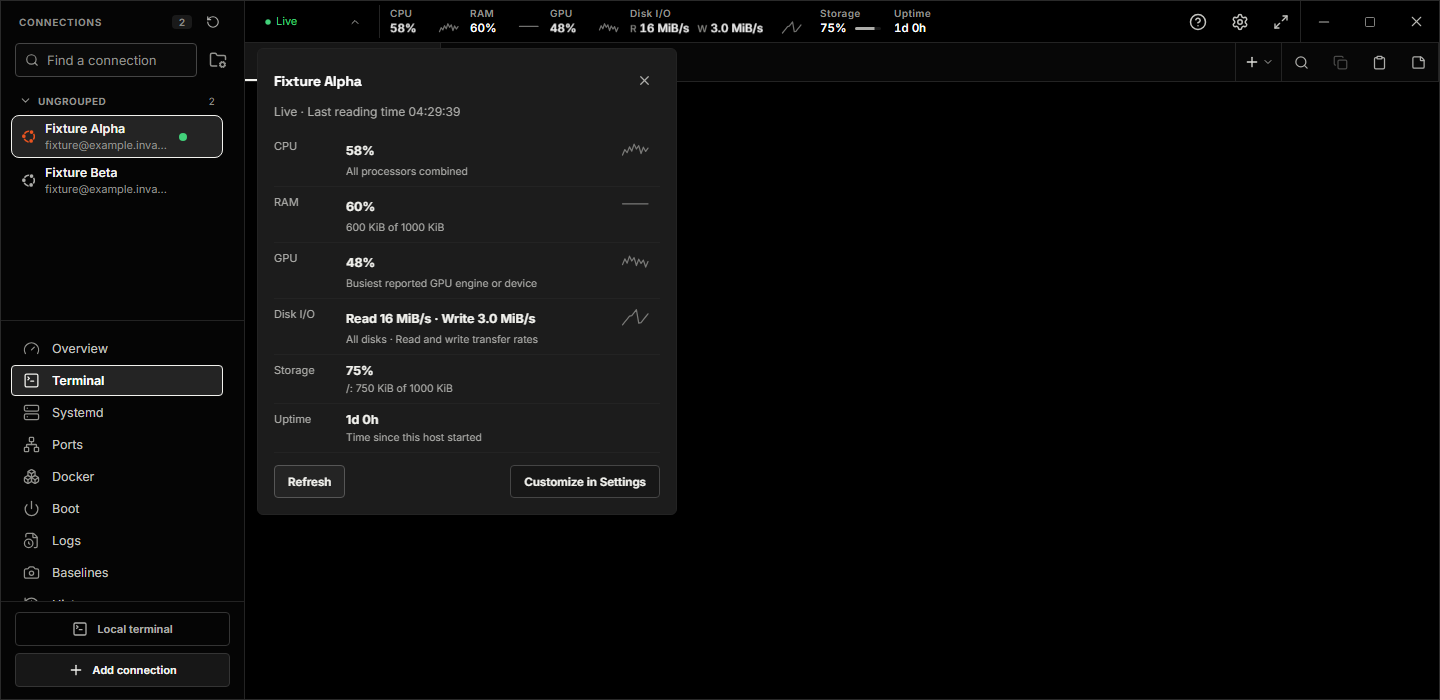
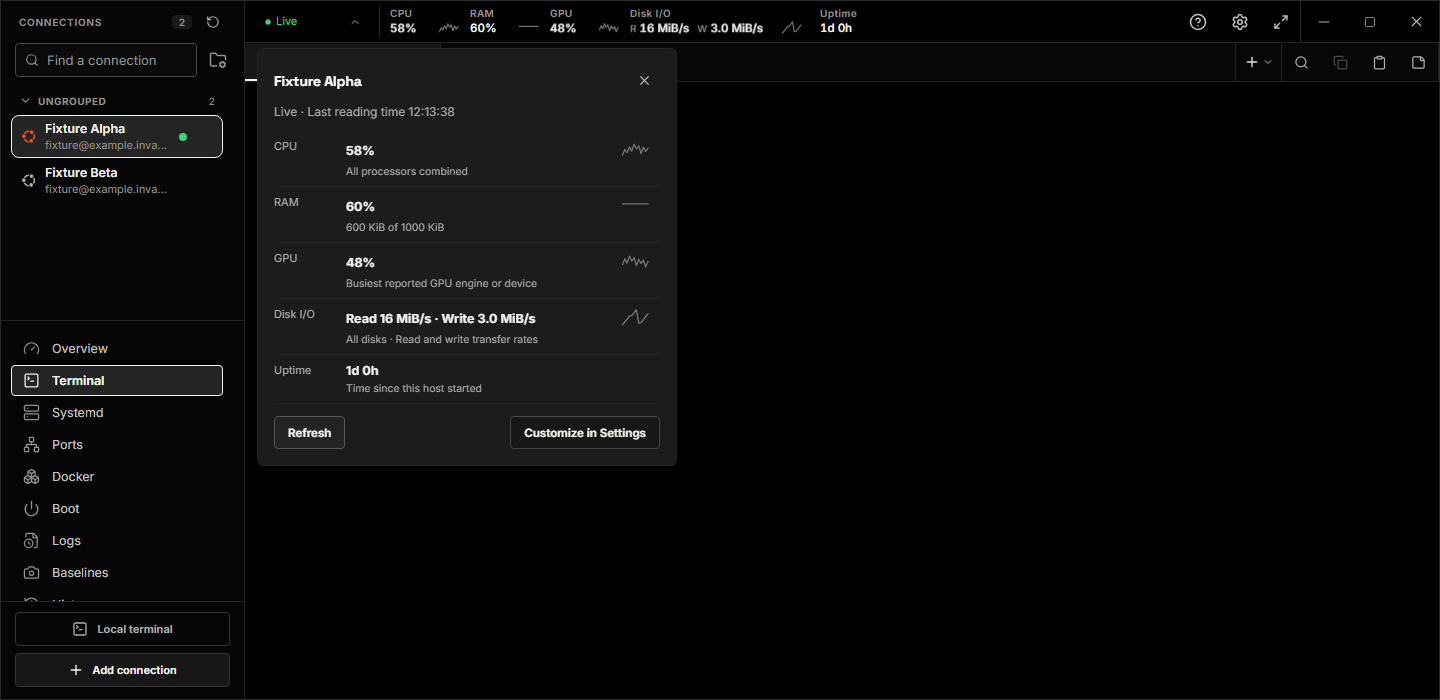
Remove storage fullness from live header metrics

diff --git a/src/app-journeys.browser.test.tsx b/src/app-journeys.browser.test.tsx
@@ -916,7 +916,7 @@ describe("complete app journeys with typed IPC fixtures", () => {
       .at(-1)!;
     expect(call[1]).toEqual({
       connectionId: null,
-      metrics: ["cpu", "ram", "diskIo", "disk", "uptime"],
+      metrics: ["cpu", "ram", "diskIo", "uptime"],
     });
     await page.getByRole("button", { name: "Open Settings" }).click();
     expect(element.querySelector(".host-metrics")).toBeNull();
@@ -924,6 +924,36 @@ describe("complete app journeys with typed IPC fixtures", () => {
     await page.getByRole("button", { name: "Save settings" }).click();
     await page.getByRole("button", { name: "Close Settings", exact: true }).click();
     expect(element.querySelector(".host-metrics")).toBeNull();
+  });
+  it("ignores saved Storage selections in the header, sampler, and Settings", async () => {
+    currentSettings = {
+      ...currentSettings,
+      hostMetricsEnabled: true,
+      hostMetrics: ["cpu", "disk", "diskIo"],
+    };
+    await mount();
+    await expect
+      .poll(() => element.querySelector<HTMLElement>(".host-metrics")?.dataset.state)
+      .toBe("live");
+    expect(element.querySelector('[data-metric="disk"]')).toBeNull();
+    expect(element.querySelector('.host-metrics-values [data-metric="diskIo"]')).not.toBeNull();
+    const samples = native.invoke.mock.calls.filter(([name]) => name === "sample_header_metrics");
+    expect(samples.length).toBeGreaterThan(0);
+    expect(samples.every(([, args]) => !args.metrics.includes("disk"))).toBe(true);
+    await page.getByRole("button", { name: "Open Settings" }).click();
+    expect(element.querySelector(".host-metrics-settings")!.textContent).not.toContain("Storage");
+    await expect.element(page.getByRole("button", { name: "Save settings" })).toBeDisabled();
+    await expect
+      .element(page.getByRole("checkbox", { name: "Disk I/O", exact: true }))
+      .toBeChecked();
+  });
+  it("hides the header without sampling when only retired Storage was selected", async () => {
+    currentSettings = { ...currentSettings, hostMetricsEnabled: true, hostMetrics: ["disk"] };
+    await mount();
+    expect(element.querySelector(".host-metrics")).toBeNull();
+    expect(native.invoke.mock.calls.some(([name]) => name === "sample_header_metrics")).toBe(false);
+    await page.getByRole("button", { name: "Open Settings" }).click();
+    await expect.element(page.getByText("Select a metric to display the header.")).toBeVisible();
   });
   it("starts local readings while the previous SSH target is still pending and ignores its late reply", async () => {
     currentSettings = { ...currentSettings, hostMetricsEnabled: true };
@@ -1124,7 +1154,7 @@ describe("complete app journeys with typed IPC fixtures", () => {
     await expect.poll(() => tab.querySelector(".presence")).toBeNull();
   });
 
-  it("animates real header readings while keeping I/O distinct from capacity and resetting trends for each host", async () => {
+  it("animates real header readings without storage capacity and resets trends for each host", async () => {
     currentSettings = {
       ...currentSettings,
       hostMetricsEnabled: true,
@@ -1157,9 +1187,8 @@ describe("complete app journeys with typed IPC fixtures", () => {
         (cell) => cell.getBoundingClientRect().left,
       );
     const before = positions();
-    const storage = strip.querySelector<HTMLElement>('[data-metric="disk"]')!;
     const io = strip.querySelector<HTMLElement>('[data-metric="diskIo"]')!;
-    expect(storage.textContent).toContain("Storage75%");
+    expect(strip.querySelector('[data-metric="disk"]')).toBeNull();
     expect(io.textContent).toContain("0 B/s");
     expect(io).toHaveAccessibleName("Disk I/O: Read 0 B/s · Write 0 B/s");
     await page.getByRole("button", { name: /: Host metrics for Fixture Alpha$/ }).click();
@@ -1171,7 +1200,6 @@ describe("complete app journeys with typed IPC fixtures", () => {
     const path = io.querySelector("path")!;
     expect(path.getAttribute("d")).toContain("L");
     expect(positions()).toEqual(before);
-    expect(storage.querySelector(".host-metric-meter")!.getAttribute("style")).toContain("0.75");
     await page.screenshot({ path: "../test-results/live-metrics-panel.png" });
     await userEvent.keyboard("{Escape}");
     await expect.poll(() => strip.querySelector(".host-metrics-panel")).toBeNull();

diff --git a/src/App.tsx b/src/App.tsx
@@ -56,7 +56,7 @@ import {
 import { CommandPalette } from "./components/CommandPalette";
 import { ConfirmDialog } from "./components/ConfirmDialog";
 import { HostMetrics } from "./components/HostMetrics";
-import { DEFAULT_HEADER_METRICS } from "./lib/header-metrics";
+import { displayedHeaderMetrics } from "./lib/header-metrics";
 import { UpdateIndicator } from "./components/UpdateIndicator";
 import { TerminalTargetMenu } from "./components/TerminalTargetMenu";
 import type { TerminalPaneHandle } from "./components/TerminalPane";
@@ -1865,6 +1865,7 @@ export function App() {
     ];
   });
 
+  const headerMetrics = displayedHeaderMetrics(settingsContract?.current.hostMetrics);
   return (
     <div
       ref={shellSize.ref}
@@ -1886,7 +1887,7 @@ export function App() {
           !terminalFocusMode &&
           settingsContract?.current.hostMetricsEnabled &&
           activeWorkspace &&
-          (settingsContract.current.hostMetrics?.length ?? DEFAULT_HEADER_METRICS.length) > 0 && (
+          headerMetrics.length > 0 && (
             <HostMetrics
               key={
                 isLocalWorkspace(activeWorkspace)
@@ -1899,7 +1900,7 @@ export function App() {
                   ? "Local machine"
                   : activeWorkspace.connectionSnapshot.displayName
               }
-              metrics={settingsContract.current.hostMetrics ?? DEFAULT_HEADER_METRICS}
+              metrics={headerMetrics}
               seconds={settingsContract.current.hostMetricsIntervalSeconds ?? 5}
               onSettings={() => setSettingsOpen(true)}
             />

diff --git a/src/pages/SettingsPane.tsx b/src/pages/SettingsPane.tsx
@@ -2,7 +2,11 @@ import { useEffect, useRef, useState, type FormEvent } from "react";
 import { ArrowLeft, RefreshCw, RotateCcw, Save } from "lucide-react";
 import { FontCatalogPicker } from "../components/FontCatalogPicker";
 import { api, errorMessage } from "../lib/api";
-import { DEFAULT_HEADER_METRICS, HEADER_METRIC_LABELS } from "../lib/header-metrics";
+import {
+  DEFAULT_HEADER_METRICS,
+  HEADER_METRIC_LABELS,
+  displayedHeaderMetrics,
+} from "../lib/header-metrics";
 import { offeredLocalShells } from "../lib/offered-local-shells";
 import { settingsHaveChanges } from "../lib/settings-draft";
 import type { AppSettings, EnvironmentInfo, LocalShellProfile } from "../types";
@@ -291,11 +295,8 @@ export function SettingsPane({
                 </select>
               </label>
             </fieldset>
-            <small>
-              Storage shows space used. Disk I/O shows read and write speeds. Monitoring pauses
-              while Settings is open or the window is hidden.
-            </small>
-            {draft.hostMetricsEnabled && draft.hostMetrics?.length === 0 && (
+            <small>Monitoring pauses while Settings is open or the window is hidden.</small>
+            {draft.hostMetricsEnabled && displayedHeaderMetrics(draft.hostMetrics).length === 0 && (
               <small>Select a metric to display the header.</small>
             )}
           </fieldset>

diff --git a/src/lib/settings-draft.ts b/src/lib/settings-draft.ts
@@ -1,5 +1,5 @@
 import type { AppSettings } from "../types";
-import { DEFAULT_HEADER_METRICS } from "./header-metrics";
+import { displayedHeaderMetrics } from "./header-metrics";
 
 function sameStringSet(saved: unknown, draft: unknown): boolean {
   const savedValues = Array.isArray(saved) ? new Set(saved) : new Set();
@@ -19,10 +19,7 @@ export function settingsHaveChanges(saved: AppSettings, draft: AppSettings): boo
     if (key === "hostMetricsEnabled") return (saved[key] ?? false) !== (draft[key] ?? false);
     if (key === "hostMetricsIntervalSeconds") return (saved[key] ?? 5) !== (draft[key] ?? 5);
     if (key === "hostMetrics")
-      return !sameStringSet(
-        saved[key] ?? DEFAULT_HEADER_METRICS,
-        draft[key] ?? DEFAULT_HEADER_METRICS,
-      );
+      return !sameStringSet(displayedHeaderMetrics(saved[key]), displayedHeaderMetrics(draft[key]));
     if (key === "localTerminalMode") return (saved[key] ?? false) !== (draft[key] ?? false);
     if (key === "defaultLocalShellId") return (saved[key] || null) !== (draft[key] || null);
     if (key === "hiddenLocalShells") return !sameStringSet(saved[key], draft[key]);

diff --git a/e2e/live-ssh.spec.ts b/e2e/live-ssh.spec.ts
@@ -42,7 +42,7 @@ async function connect() {
 }
 
 describe("read-only Ubuntu SSH journeys with independent native processes", () => {
-  it("shows live disk read/write rates separately from storage capacity in the native header", async () => {
+  it("shows live disk read/write rates without storage capacity in the native header", async () => {
     await connect();
     await $("aria/Open Settings").click();
     await $("aria/Show host metrics in header").waitForExist();
@@ -56,8 +56,7 @@ describe("read-only Ubuntu SSH journeys with independent native processes", () =
     });
     await expect(io).toHaveAttribute("aria-label", expect.stringContaining("Read "));
     await expect(io).toHaveAttribute("aria-label", expect.stringContaining("/s"));
-    await expect(storage).toHaveAttribute("aria-label", expect.stringContaining("Storage: "));
-    await expect(storage).toHaveAttribute("aria-label", expect.stringContaining("%"));
+    await expect(storage).not.toExist();
     await expect($(".host-row.active .presence-busy")).not.toExist();
   });
   it("keeps the host and tab processing rings active during a silent command", async () => {

diff --git a/src/styles.css b/src/styles.css
@@ -529,9 +529,6 @@ code,
 .host-metric[data-metric="diskIo"] {
   min-width: 180px;
 }
-.host-metric[data-metric="disk"] {
-  min-width: 64px;
-}
 .host-metric[data-metric="uptime"] {
   min-width: 56px;
 }
@@ -556,25 +553,6 @@ code,
   stroke-linejoin: round;
   vector-effect: non-scaling-stroke;
   transition: d var(--motion-med) var(--ease);
-}
-.host-metric-meter {
-  display: block;
-  width: 26px;
-  height: 3px;
-  flex: none;
-  overflow: hidden;
-  border-radius: 2px;
-  background: var(--fill-hover);
-  pointer-events: none;
-}
-.host-metric-meter::after {
-  content: "";
-  display: block;
-  height: 100%;
-  background: var(--text-muted);
-  transform: scaleX(var(--metric-level));
-  transform-origin: left;
-  transition: transform var(--motion-med) var(--ease);
 }
 .host-metrics:not([data-state="live"]) .host-metric-trend {
   opacity: 0.25;
@@ -733,9 +711,6 @@ code,
   }
   .host-metric[data-metric="diskIo"] {
     min-width: 160px;
-  }
-  .host-metric[data-metric="disk"] {
-    min-width: 60px;
   }
   .host-metric[data-metric="uptime"] {
     min-width: 54px;

diff --git a/src/lib/header-metrics.test.ts b/src/lib/header-metrics.test.ts
@@ -8,6 +8,7 @@ import {
   formatByteRate,
   headerMetricNumber,
   metricTrend,
+  displayedHeaderMetrics,
 } from "./header-metrics";
 import type { HeaderMetrics } from "../types";
 const sample: HeaderMetrics = {
@@ -24,6 +25,12 @@ const sample: HeaderMetrics = {
   uptimeSeconds: 90000,
 };
 describe("header metric values", () => {
+  it("excludes retired storage selections without changing other choices", () => {
+    expect(displayedHeaderMetrics()).toEqual(["cpu", "ram", "gpu", "diskIo", "uptime"]);
+    expect(displayedHeaderMetrics(["diskIo", "disk", "cpu"])).toEqual(["diskIo", "cpu"]);
+    expect(displayedHeaderMetrics(["disk"])).toEqual([]);
+    expect(displayedHeaderMetrics([])).toEqual([]);
+  });
   it("separates read/write transfer rates from storage fullness", () => {
     expect(headerMetricValue("diskIo", sample)).toBe("Read 1.0 MiB/s · Write 512 KiB/s");
     expect(headerMetricValue("disk", sample)).toBe("50%");

diff --git a/src/components/HostMetrics.tsx b/src/components/HostMetrics.tsx
@@ -1,4 +1,4 @@
-import { useEffect, useId, useRef, useState, type CSSProperties } from "react";
+import { useEffect, useId, useRef, useState } from "react";
 import { Circle, CircleAlert, CircleDashed, Clock3, ChevronDown, Pause, X } from "lucide-react";
 import { useHeaderMetrics } from "../hooks/use-header-metrics";
 import { usePopoverExit } from "../hooks/use-popover-exit";
@@ -67,15 +67,7 @@ function MetricCell({
             compact
           )}
         </span>
-        {metric === "disk" && available ? (
-          <span
-            className="host-metric-meter"
-            aria-hidden="true"
-            style={{ "--metric-level": headerMetricNumber(metric, sample)! / 100 } as CSSProperties}
-          />
-        ) : (
-          <MetricTrace metric={metric} history={history} />
-        )}
+        <MetricTrace metric={metric} history={history} />
       </strong>
     </span>
   );

diff --git a/src/pages/SettingsPane.test.tsx b/src/pages/SettingsPane.test.tsx
@@ -105,6 +105,7 @@ describe("Settings actions", () => {
   it("enables and customizes host metrics while keeping the default draft clean", async () => {
     renderPane();
     expect(saveButton().disabled).toBe(true);
+    expect(screen.queryByRole("checkbox", { name: "Storage" })).toBeNull();
     const enabled = screen.getByRole("checkbox", { name: "Show host metrics in header" });
     expect((enabled as HTMLInputElement).checked).toBe(false);
     await userEvent.click(enabled);
@@ -116,7 +117,7 @@ describe("Settings actions", () => {
     expect(api.saveSettings).toHaveBeenCalledWith({
       ...settings,
       hostMetricsEnabled: true,
-      hostMetrics: ["cpu", "ram", "diskIo", "disk", "uptime"],
+      hostMetrics: ["cpu", "ram", "diskIo", "uptime"],
       hostMetricsIntervalSeconds: 10,
     });
   });

diff --git a/src/lib/settings-draft.test.ts b/src/lib/settings-draft.test.ts
@@ -62,6 +62,20 @@ describe("Settings drafts", () => {
 });
 
 describe("header metric preferences", () => {
+  it("ignores retired storage selections when checking for unsaved edits", () => {
+    expect(
+      settingsHaveChanges(
+        { ...settings, hostMetrics: ["cpu", "disk", "diskIo"] },
+        { ...settings, hostMetrics: ["cpu", "diskIo"] },
+      ),
+    ).toBe(false);
+    expect(
+      settingsHaveChanges(
+        { ...settings, hostMetrics: ["disk"] },
+        { ...settings, hostMetrics: ["diskIo"] },
+      ),
+    ).toBe(true);
+  });
   it("treats missing preferences as defaults and compares metric selections by value", () => {
     expect(
       settingsHaveChanges(settings, {

diff --git a/src/lib/header-metrics.ts b/src/lib/header-metrics.ts
@@ -1,14 +1,11 @@
 import type { HeaderMetric, HeaderMetrics } from "../types";
 import { formatKib, memoryUsage } from "./host-resources";
 
-export const DEFAULT_HEADER_METRICS: HeaderMetric[] = [
-  "cpu",
-  "ram",
-  "gpu",
-  "diskIo",
-  "disk",
-  "uptime",
-];
+export const DEFAULT_HEADER_METRICS: HeaderMetric[] = ["cpu", "ram", "gpu", "diskIo", "uptime"];
+/** Older settings can still contain the retired filesystem-capacity metric. */
+export function displayedHeaderMetrics(metrics: HeaderMetric[] = DEFAULT_HEADER_METRICS) {
+  return metrics.filter((metric) => metric !== "disk");
+}
 export const HEADER_METRIC_LABELS: Record<HeaderMetric, string> = {
   cpu: "CPU",
   ram: "RAM",

diff --git a/src/types.ts b/src/types.ts
@@ -418,6 +418,7 @@ export interface HistoryInput {
   shell: string;
 }
 
+// "disk" remains readable in older settings and is filtered out before display or sampling.
 export type HeaderMetric = "cpu" | "ram" | "gpu" | "disk" | "diskIo" | "uptime";
 
 export interface HeaderMetrics {
